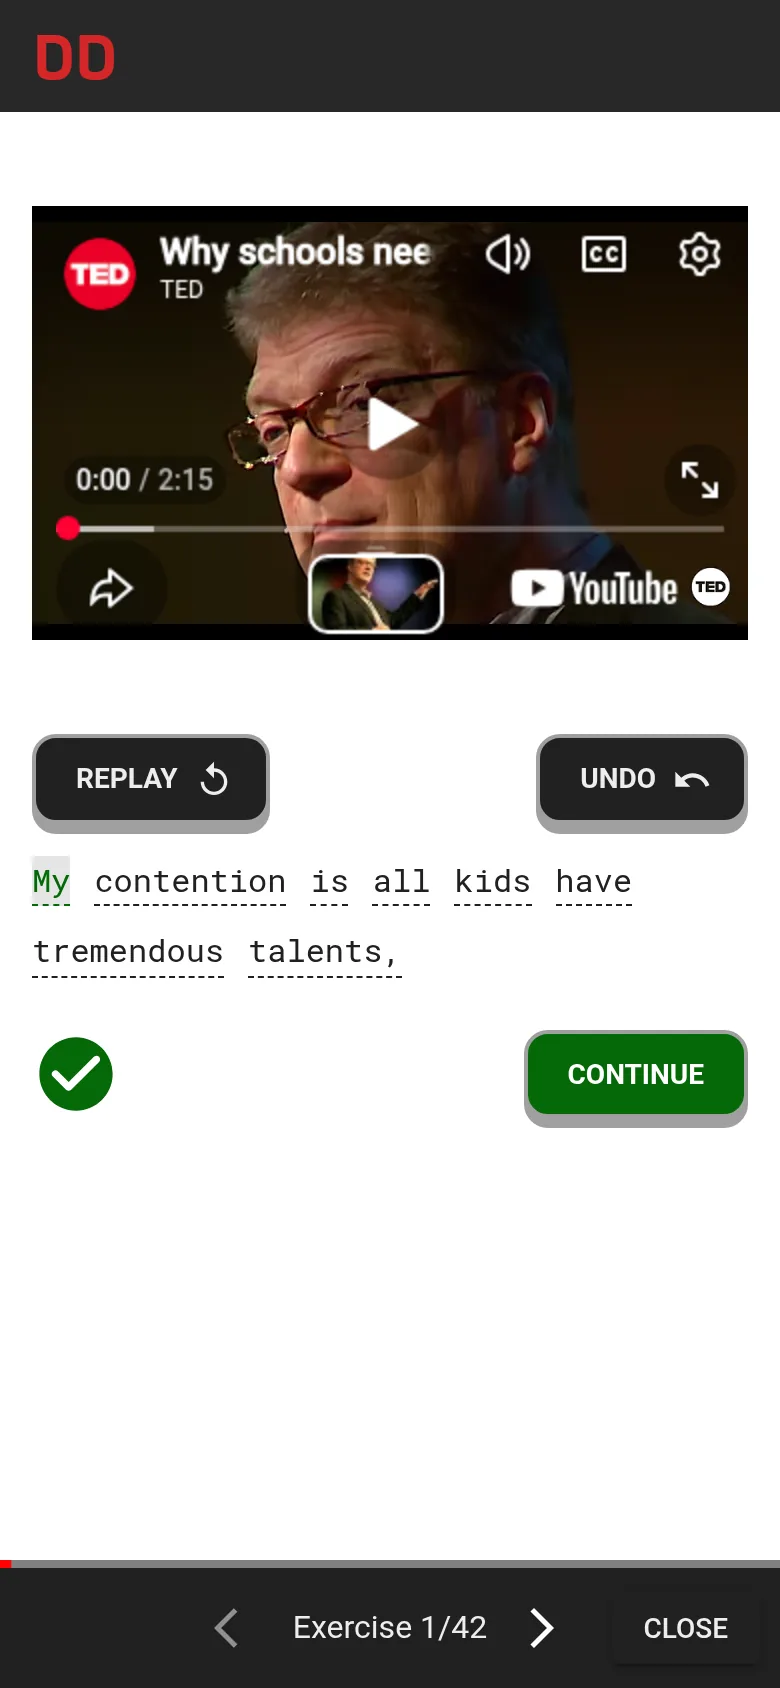
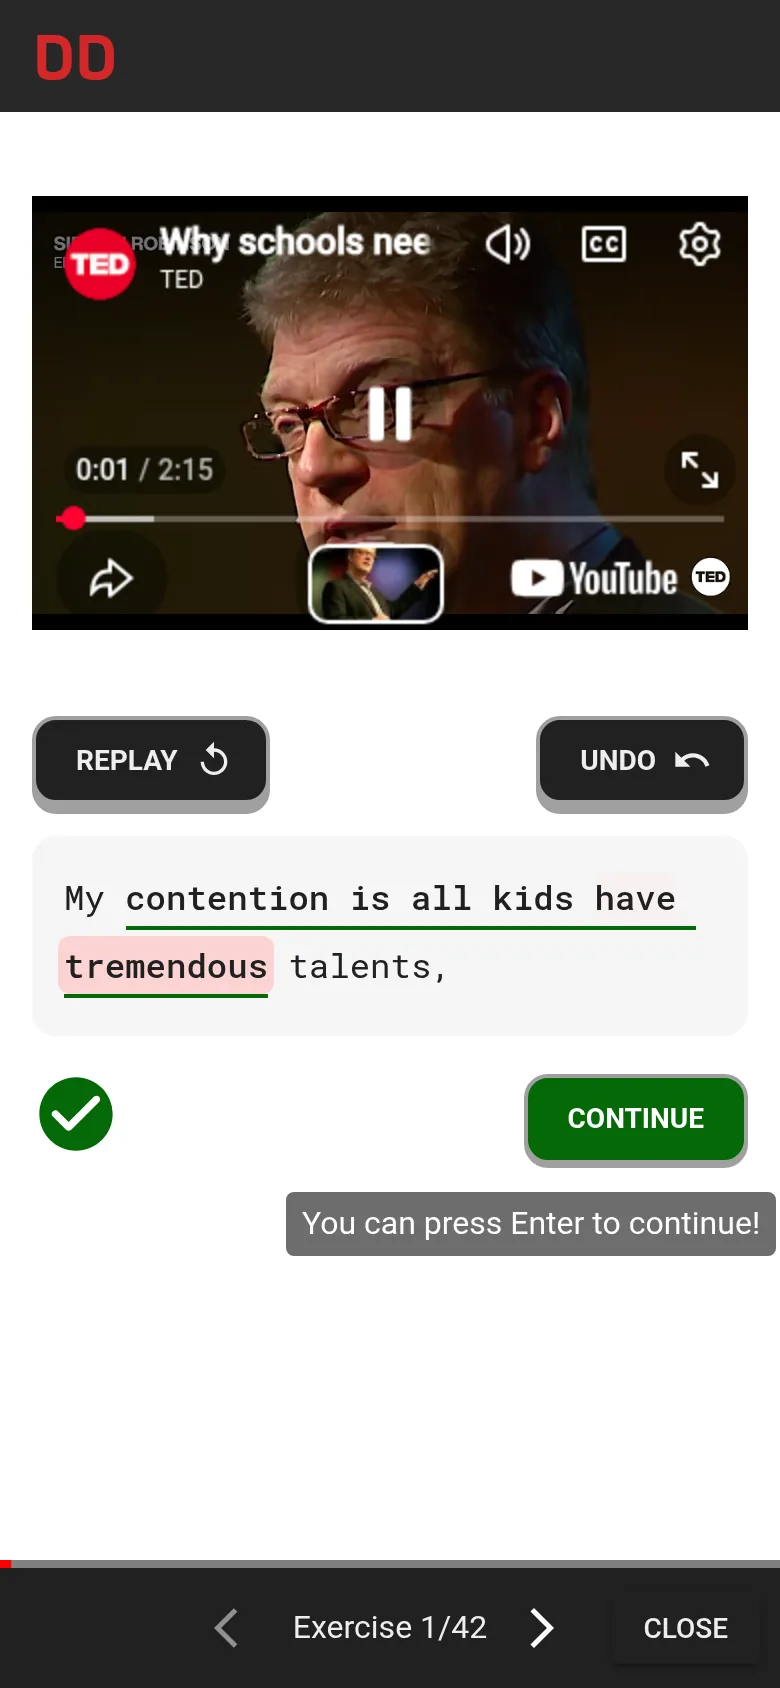
Show the new correct-answer card in the lesson screenshots
capture.py now waits for an answer to be accepted by itself instead of
pressing Enter or CHECK, which continued to the next clip or timed out.

Changed region(s): [[0.0308, 0.0924, 0.9538, 0.7085], [0.3692, 0.5853, 1.0, 0.7701]]

diff --git a/scripts/capture.py b/scripts/capture.py
@@ -85,7 +85,8 @@ def lesson_targets(page):
         'replay': page.get_by_role('button', name=re.compile('^replay', re.I)),
         'skip': page.get_by_role('button', name=re.compile('^skip', re.I)),
         'undo': page.get_by_role('button', name=re.compile('^undo', re.I)),
-        'continue': page.get_by_role('button', name=re.compile('^continue', re.I)),
+        # By text: while its tooltip is open, the tooltip names the button
+        'continue': page.get_by_role('button').filter(has_text=re.compile('^continue$', re.I)),
         'check': page.get_by_role('button', name=re.compile('^check', re.I)),
         'textarea': page.get_by_placeholder('Type what you hear'),
         'matching': page.get_by_text(re.compile(r'^(Matching|Almost)')),
@@ -173,7 +174,8 @@ with sync_playwright() as p:
         lesson_shot(page, 'lesson-hint')
         eshot(page.get_by_text(re.compile(r'^Matching')).locator('xpath=..'), 'hint-closeup')
         ta.fill(GAP)
-        ta.press('Enter')
+        # A complete answer is accepted as it's typed; Enter would continue
+        page.get_by_text('You are correct!').first.wait_for(timeout=8000)
         page.wait_for_timeout(2500)
         lesson_shot(page, 'lesson-correct')
         page.keyboard.press('Enter')  # CONTINUE
@@ -221,7 +223,8 @@ with sync_playwright() as p:
         mp.wait_for_timeout(1000)
         lesson_shot(mp, 'mobile-lesson')
         mta.fill(GAP)
-        mp.get_by_role('button', name='CHECK').click()
+        # A complete answer is accepted as it's typed; CHECK goes away
+        mp.get_by_text('You are correct!').first.wait_for(timeout=8000)
         mp.wait_for_timeout(2000)
         lesson_shot(mp, 'mobile-lesson-correct')
 
